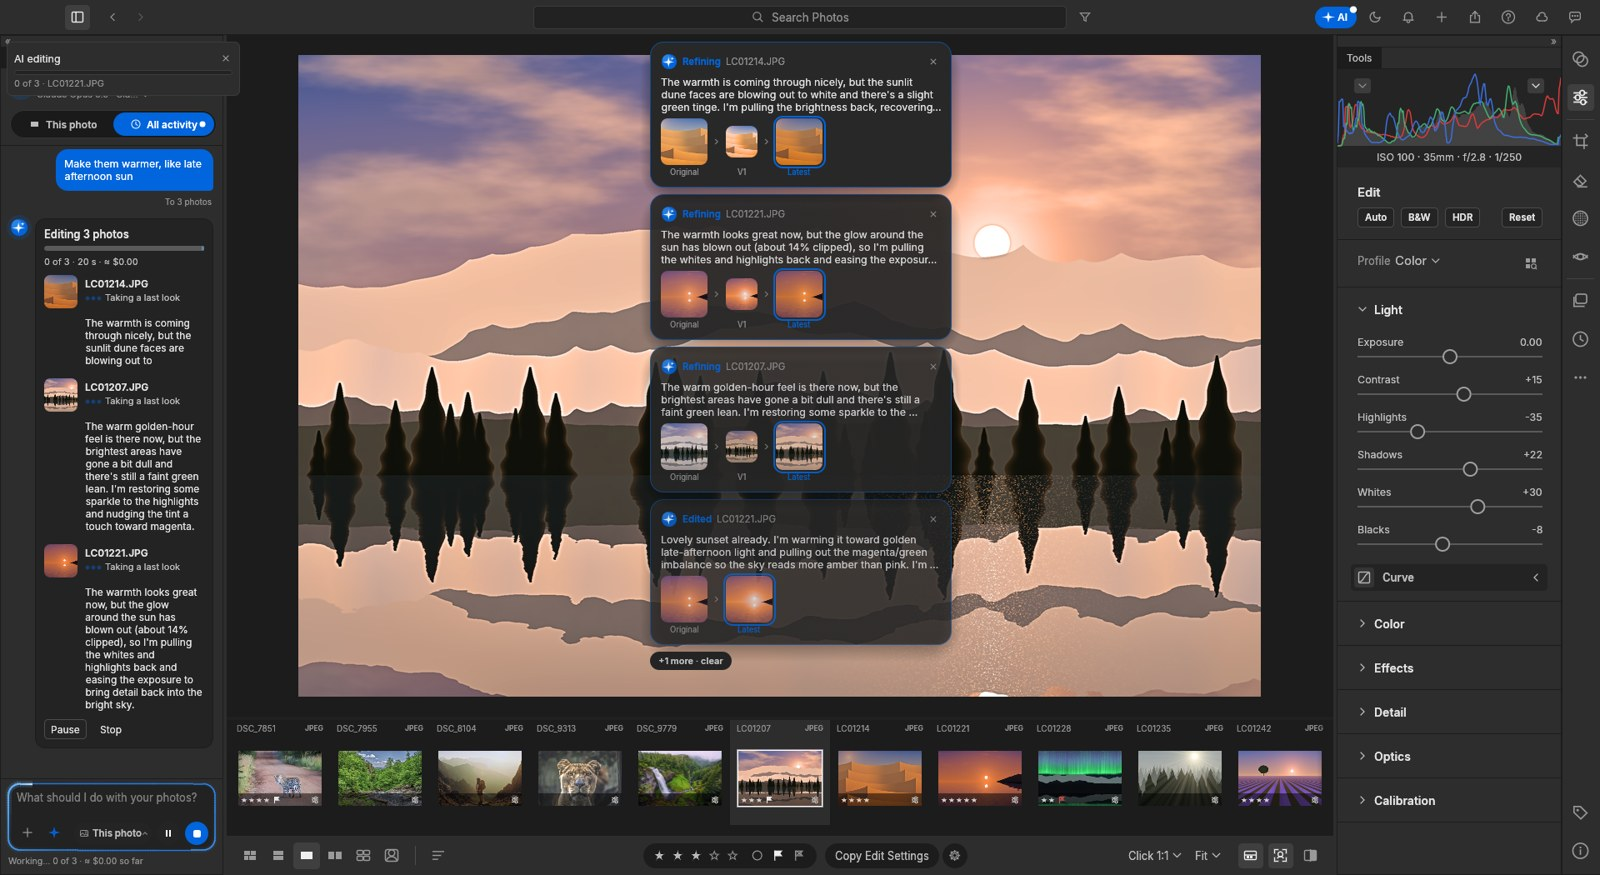
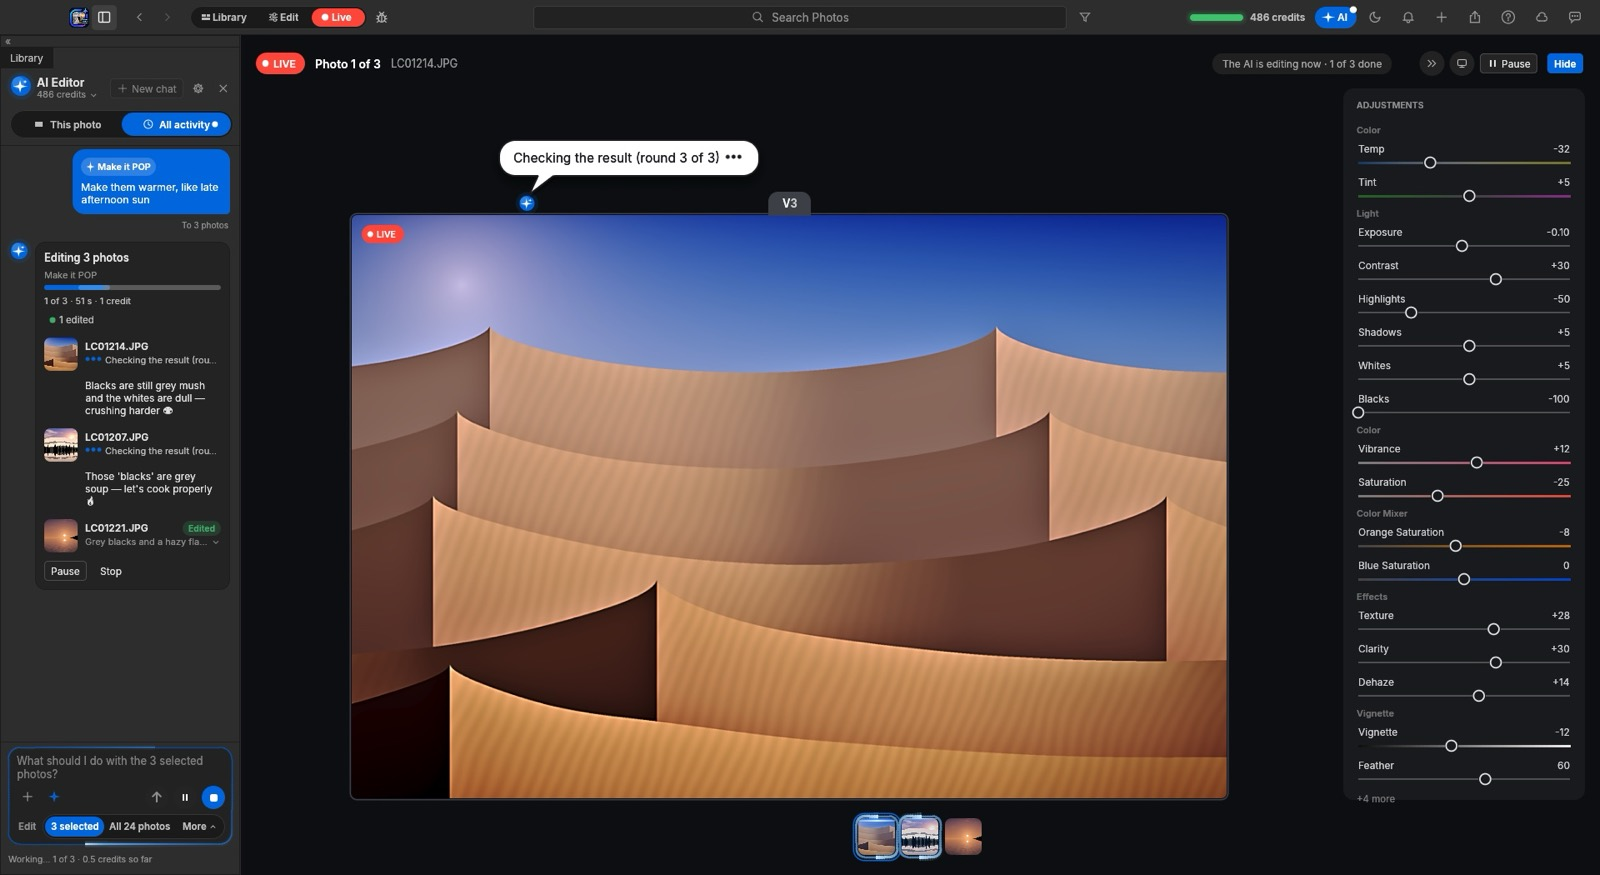
The download page for ZippyCraft 3: AI included (credits, no API keys), what's new, fresh screenshots

diff --git a/README.md b/README.md
@@ -4,8 +4,10 @@
 
 <h1>ZippyCraft</h1>
 
-<p><b>The AI photo editor that works through your shoot for you.</b><br>
-Tell it what you want in plain words. It edits, culls and checks every photo, one at a time, and tells you what it did.</p>
+<h3>Tell it how you want your photos. It edits the whole shoot for you.</h3>
+
+<p>An AI photo editor for photographers. Describe the look in plain words, and ZippyCraft edits, culls and checks every photo,<br>
+one at a time, telling you what it sees and what it changed.</p>
 
 <p>
 <a href="https://github.com/inventabotnow/zippycraft-download/releases/latest"><img src="https://img.shields.io/badge/Download_for_Mac-Apple_Silicon_%26_Intel-0165DD?style=for-the-badge&logo=apple&logoColor=white" alt="Download for Mac"></a>
@@ -13,84 +15,116 @@ Tell it what you want in plain words. It edits, culls and checks every photo, on
 <a href="https://github.com/inventabotnow/zippycraft-download/releases/latest"><img src="https://img.shields.io/badge/Download_for_Windows-10_%26_11-0165DD?style=for-the-badge&logo=windows&logoColor=white" alt="Download for Windows"></a>
 </p>
 
-<p><b>Free for 14 days</b>, so you can see if it fits your workflow.<br>
-Download it, plug in your AI, and hand it your next shoot.</p>
+<p>
+<img src="https://img.shields.io/badge/version-3.0-37d67a?style=flat-square" alt="Version 3.0">
+<img src="https://img.shields.io/badge/AI-included-37d67a?style=flat-square" alt="AI included">
+<img src="https://img.shields.io/badge/no_API_key-needed-37d67a?style=flat-square" alt="No API key needed">
+<img src="https://img.shields.io/badge/originals-never_touched-37d67a?style=flat-square" alt="Originals never touched">
+</p>
+
+<p><b>Free to try.</b> Download it, enter your name and email, and your free AI credits are waiting.</p>
 
 <br>
 
-<img src="images/zippycraft-at-work.jpg" width="900" alt="ZippyCraft editing a batch of photos while the AI explains each change">
+<img src="images/zippycraft-at-work.jpg" width="920" alt="ZippyCraft's AI editing three photos live, checking its own work as it goes">
+
+<sub>Live: the AI edits each photo, looks at the result, and keeps going until it's right.</sub>
 
 </div>
 
 <br>
+
+<h2>✨ New in 3.0: the best edits yet</h2>
+
+<table>
+<tr>
+<td width="55%" valign="top">
+
+**Whites come out white.** The AI now uses the White Balance Selector, the way a pro retoucher does: it finds something in the photo that should be white (a dress, a shirt, a tablecloth) and clicks on it. If it lands on a lamp, a candle or a shadow, ZippyCraft undoes it and has it pick again.
+
+**Blacks that are really black.** The AI tells dark grey from black, so flat, washed-out photos don't slip through as "finished".
+
+**Every tool in the app.** Lens corrections, geometry, camera profiles, calibration, curves, and masks for the sky, the subject and the background, all at the AI's fingertips.
+
+**It knows what every slider really does.** We measured every one of them on test charts and real photos, and taught the AI the results. It reaches the look in fewer, surer steps.
+
+**Sharper, cleaner detail.** Sharpening Radius and Detail, and Noise Reduction Contrast, now do their full job.
+
+</td>
+<td width="45%" valign="top" align="center">
+<img src="images/whats-new.png" width="400" alt="What's New in version 3.0">
+</td>
+</tr>
+</table>
 
 <h2>What it does</h2>
 
 <table>
 <tr>
 <td width="50%" valign="top">
-<h3>Edits from a sentence</h3>
+<h3>🗣 Edits from a sentence</h3>
 <p><i>"If it's blurry, reject it. Otherwise fix the lighting and keep skin natural."</i><br>
-ZippyCraft looks at each photo, sets the exposure, contrast, white balance and colour itself, then checks its own work and corrects it until it matches what you asked.</p>
+ZippyCraft sets the exposure, contrast, white balance and colour of each photo itself, then checks its own work and corrects it until it matches what you asked.</p>
 </td>
 <td width="50%" valign="top">
-<h3>Culls the shoot</h3>
-<p>Out-of-focus, shaken and badly exposed frames are flagged as rejected (never deleted unless you say so). The keepers get star ratings and the best get picked.</p>
+<h3>🎯 Culls the shoot</h3>
+<p>Out-of-focus, shaken and badly exposed frames are flagged as rejected (never deleted unless you say so). The keepers get star ratings, and after a run it offers to keep the best of photos taken seconds apart.</p>
 </td>
 </tr>
 <tr>
 <td valign="top">
-<h3>Talks you through it</h3>
+<h3>💬 Talks you through it</h3>
 <p>At every step the AI says what it sees and what it changed: <i>"Close, but the sky has blown out, so I'm pulling the highlights back."</i> Each photo keeps its own conversation, so you can come back later and say <i>"darker blacks please"</i>.</p>
 </td>
 <td valign="top">
-<h3>Every version kept</h3>
-<p>The original, each change the AI made and your own tweaks are all kept as versions. Hover to compare, click to go back, and carry on from there. Nothing is ever overwritten.</p>
+<h3>🕘 Every version kept</h3>
+<p>The original, each version the AI made and your own tweaks are all kept. Hover to compare, click to go back, and choose the one to keep. Nothing is ever overwritten.</p>
 </td>
 </tr>
 <tr>
 <td valign="top">
-<h3>Matches a look</h3>
-<p>Drop in a reference photo of the style you love and ask for <i>"this look"</i>. Save your favourite instructions as recipes: Bright &amp; Airy, Moody &amp; Cinematic, Real Estate, Black &amp; White and your own.</p>
+<h3>🎨 Matches a look</h3>
+<p>Drop in a reference photo of the style you love and ask for <i>"this look"</i>. Recipes like Bright &amp; Airy, Moody &amp; Cinematic, Real Estate and Black &amp; White run in one click, and you can edit them or save your own.</p>
 </td>
 <td valign="top">
-<h3>Understands what you mean</h3>
-<p>Ask a question and it answers. Say <i>"do the same to the first 20"</i> and it selects them and sets it up for you. Ask it to save your edits into the files, export, rate or flag, and it offers a button to do it.</p>
+<h3>🎬 Replays every edit</h3>
+<p>Watch the AI's work back, photo by photo, ending on your own finishing touches (and a little confetti 🎉). Make a share clip of the before and after for your clients or socials.</p>
 </td>
 </tr>
 </table>
 
 <div align="center">
-<img src="images/conversation.png" width="300" alt="A photo's conversation with its versions">
-&nbsp;&nbsp;
-<img src="images/notifications.png" width="300" alt="Notifications showing the original and the latest version">
-&nbsp;&nbsp;
-<img src="images/ask-anything.png" width="300" alt="Asking the AI to save, switch model or set up a batch">
+<img src="images/finished.jpg" width="620" alt="A finished run: three photos edited, with Watch again, Make share clip and Keep the best shots">
+&nbsp;
+<img src="images/notifications.png" width="260" alt="Notifications showing the original and the latest version">
 </div>
 
 <h2>How it works</h2>
 
 <ol>
-<li><b>Bring in your photos.</b> Point ZippyCraft at a folder of JPEGs or raw files from your camera. It's a full photo library and raw developer: everything you'd expect for sorting, rating and editing by hand is here too.</li>
-<li><b>Select photos and say what you want.</b> Select one, a handful or the whole shoot, click <b>Edit with AI</b> and type it in your own words, or pick a recipe.</li>
-<li><b>Watch it work, then fine-tune.</b> Each change pops up as it happens with the before and after. Reply to any photo to adjust it, or go back to any version.</li>
+<li><b>Bring in your photos.</b> Import a folder of JPEGs or raw files from your camera. ZippyCraft is a full photo library and raw developer, so everything you'd expect for sorting, rating and editing by hand is here too.</li>
+<li><b>Select photos and say what you want.</b> One, a handful or the whole shoot. Type it in your own words, or pick a recipe.</li>
+<li><b>Watch it work, then fine-tune.</b> Each change pops up as it happens, with the before and after. Reply to any photo to adjust it, or go back to any version.</li>
 <li><b>Export.</b> Your originals are never touched: edits are stored separately and every step can be undone.</li>
 </ol>
 
-<h2>Plug in your AI</h2>
+<h2>💳 Simple pricing: credits</h2>
 
-<p>ZippyCraft works with the AI you choose. Paste your own API key in Settings and pay your provider directly for what you use, with no markup. The app shows an estimate before every batch.</p>
+<p>The AI is built in. There's nothing to set up and no account with an AI company: you just use credits.</p>
 
 <table>
-<tr><th>Provider</th><th>Models</th><th>Roughly, per 100 photos</th></tr>
-<tr><td>Anthropic</td><td>Claude Opus, Sonnet, Haiku</td><td>$0.30 to $12</td></tr>
-<tr><td>OpenAI</td><td>GPT-6 Astra, Terra, Luna</td><td>$0.30 to $30</td></tr>
-<tr><td>Google</td><td>Gemini Pro, Flash, Flash-Lite</td><td>$0.30 to $6</td></tr>
-<tr><td>DeepSeek</td><td>DeepSeek Flash</td><td>under $1</td></tr>
-<tr><td>Others</td><td>Any OpenAI-compatible service (OpenRouter and more)</td><td>depends on the model</td></tr>
+<tr><th>How carefully</th><th>Checks per photo</th><th>Credits per photo</th></tr>
+<tr><td><b>Fast</b></td><td>up to 3</td><td>0.5</td></tr>
+<tr><td><b>Balanced</b> (the default)</td><td>up to 5</td><td>1</td></tr>
+<tr><td><b>Thorough</b></td><td>up to 9</td><td>1.5</td></tr>
 </table>
 
-<p><sub>Estimates at list prices; the bigger models are slower and more careful, the small ones quick and cheap.</sub></p>
+<ul>
+<li><b>Free credits to start</b> when you enter your name and email.</li>
+<li><b>Top up</b> from inside the app whenever you like. Credits you buy never expire.</li>
+<li><b>Plans</b> give you <b>300 credits every month</b> for less per photo.</li>
+<li>If an edit fails before the AI changes anything, you get the credit back.</li>
+</ul>
 
 <h2>What to expect</h2>
 
@@ -98,8 +132,8 @@ ZippyCraft looks at each photo, sets the exposure, contrast, white balance and c
 <li><b>Your photos stay yours.</b> The AI sees small previews, never your original files, and only when you ask it to work.</li>
 <li><b>Nothing is destructive.</b> Rejected photos are flagged, not deleted. Every edit can be undone or rolled back to any version.</li>
 <li><b>It's fast.</b> Several photos are worked on at once, so a few hundred photos take minutes, not an evening.</li>
-<li><b>You stay in charge.</b> Choose how hard it works (Fast, Balanced or Thorough), what happens to rejects, and which photos it touches.</li>
-<li><b>Updates itself.</b> When a new version is out, ZippyCraft offers it and installs it in one click.</li>
+<li><b>You stay in charge.</b> Choose how carefully it works, what happens to rejects, and which photos it touches.</li>
+<li><b>Always up to date.</b> ZippyCraft updates itself when you open it, so you always have the newest version.</li>
 </ul>
 
 <h2>Install</h2>
@@ -129,10 +163,6 @@ ZippyCraft looks at each photo, sets the exposure, contrast, white balance and c
 </tr>
 </table>
 
-<h2>Your free trial</h2>
-
-<p>Open the AI panel, enter your name and email, and your <b>14-day free trial</b> starts. After that, extend your licence from the app whenever you're ready. Editing by hand keeps working either way: the licence is only for the AI.</p>
-
 <details>
 <summary><b>Questions</b></summary>
 <br>
@@ -140,17 +170,17 @@ ZippyCraft looks at each photo, sets the exposure, contrast, white balance and c
 <b>Do I need to know how to edit photos?</b><br>
 No. Describe the result you want ("brighter and warmer", "moody, like a film still") and the AI does the editing. If you do know, every slider it touched is there for you to adjust.<br><br>
 
+<b>Do I need an AI account or an API key?</b><br>
+No. The AI is included. You only use ZippyCraft credits.<br><br>
+
+<b>What happens when I run out of credits?</b><br>
+Your photos and edits are safe, and editing by hand, replays and exports keep working. Top up from inside the app to keep the AI going.<br><br>
+
 <b>Does it work with raw files?</b><br>
 Yes: raw files from most cameras, as well as JPEG, PNG, TIFF, HEIC and more.<br><br>
 
 <b>Will it delete my photos?</b><br>
-No. Photos it thinks are unusable are flagged as rejected so you can review them. Moving them to the bin is an option you have to turn on.<br><br>
-
-<b>Which AI should I pick?</b><br>
-Start with a mid-priced model (Claude Sonnet, GPT-6.1 Terra or Gemini Flash). Use the top models for your most important shoots, and the cheapest ones for quick culls.<br><br>
-
-<b>Is my API key safe?</b><br>
-It's stored only on your computer and sent only to the provider you chose.
+No. Photos it thinks are unusable are flagged as rejected so you can review them. Moving them to the bin is an option you have to turn on.
 </details>
 
 <br>
